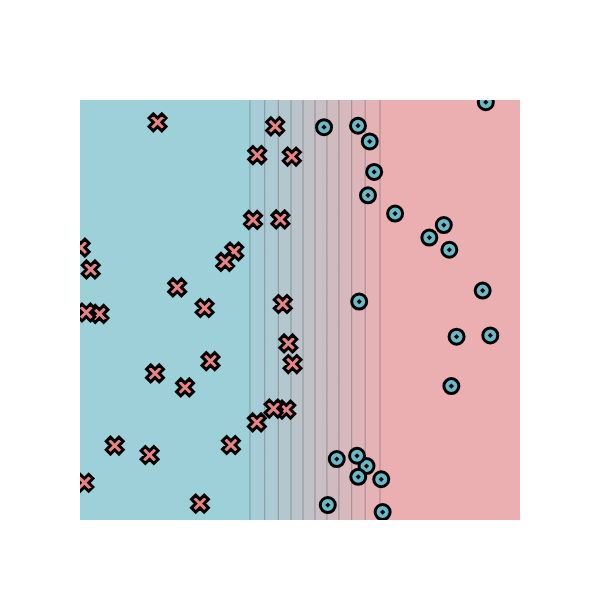
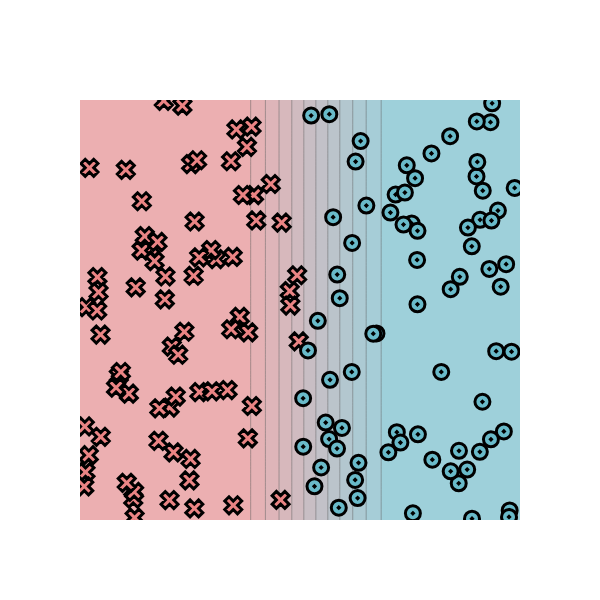
change slope from 8 to -8 in README since <0.5 means 1 not 0

diff --git a/README.md b/README.md
@@ -8,5 +8,5 @@
 * Overview: https://minitorch.github.io/module0.html
 
 # Task 0.5
-Simple, weight_0_0: 8, weight_1_0: 0, bias_0: -4
+Simple, weight_0_0: -8, weight_1_0: 0, bias_0: 4
 ![](./task_0_5.png)
